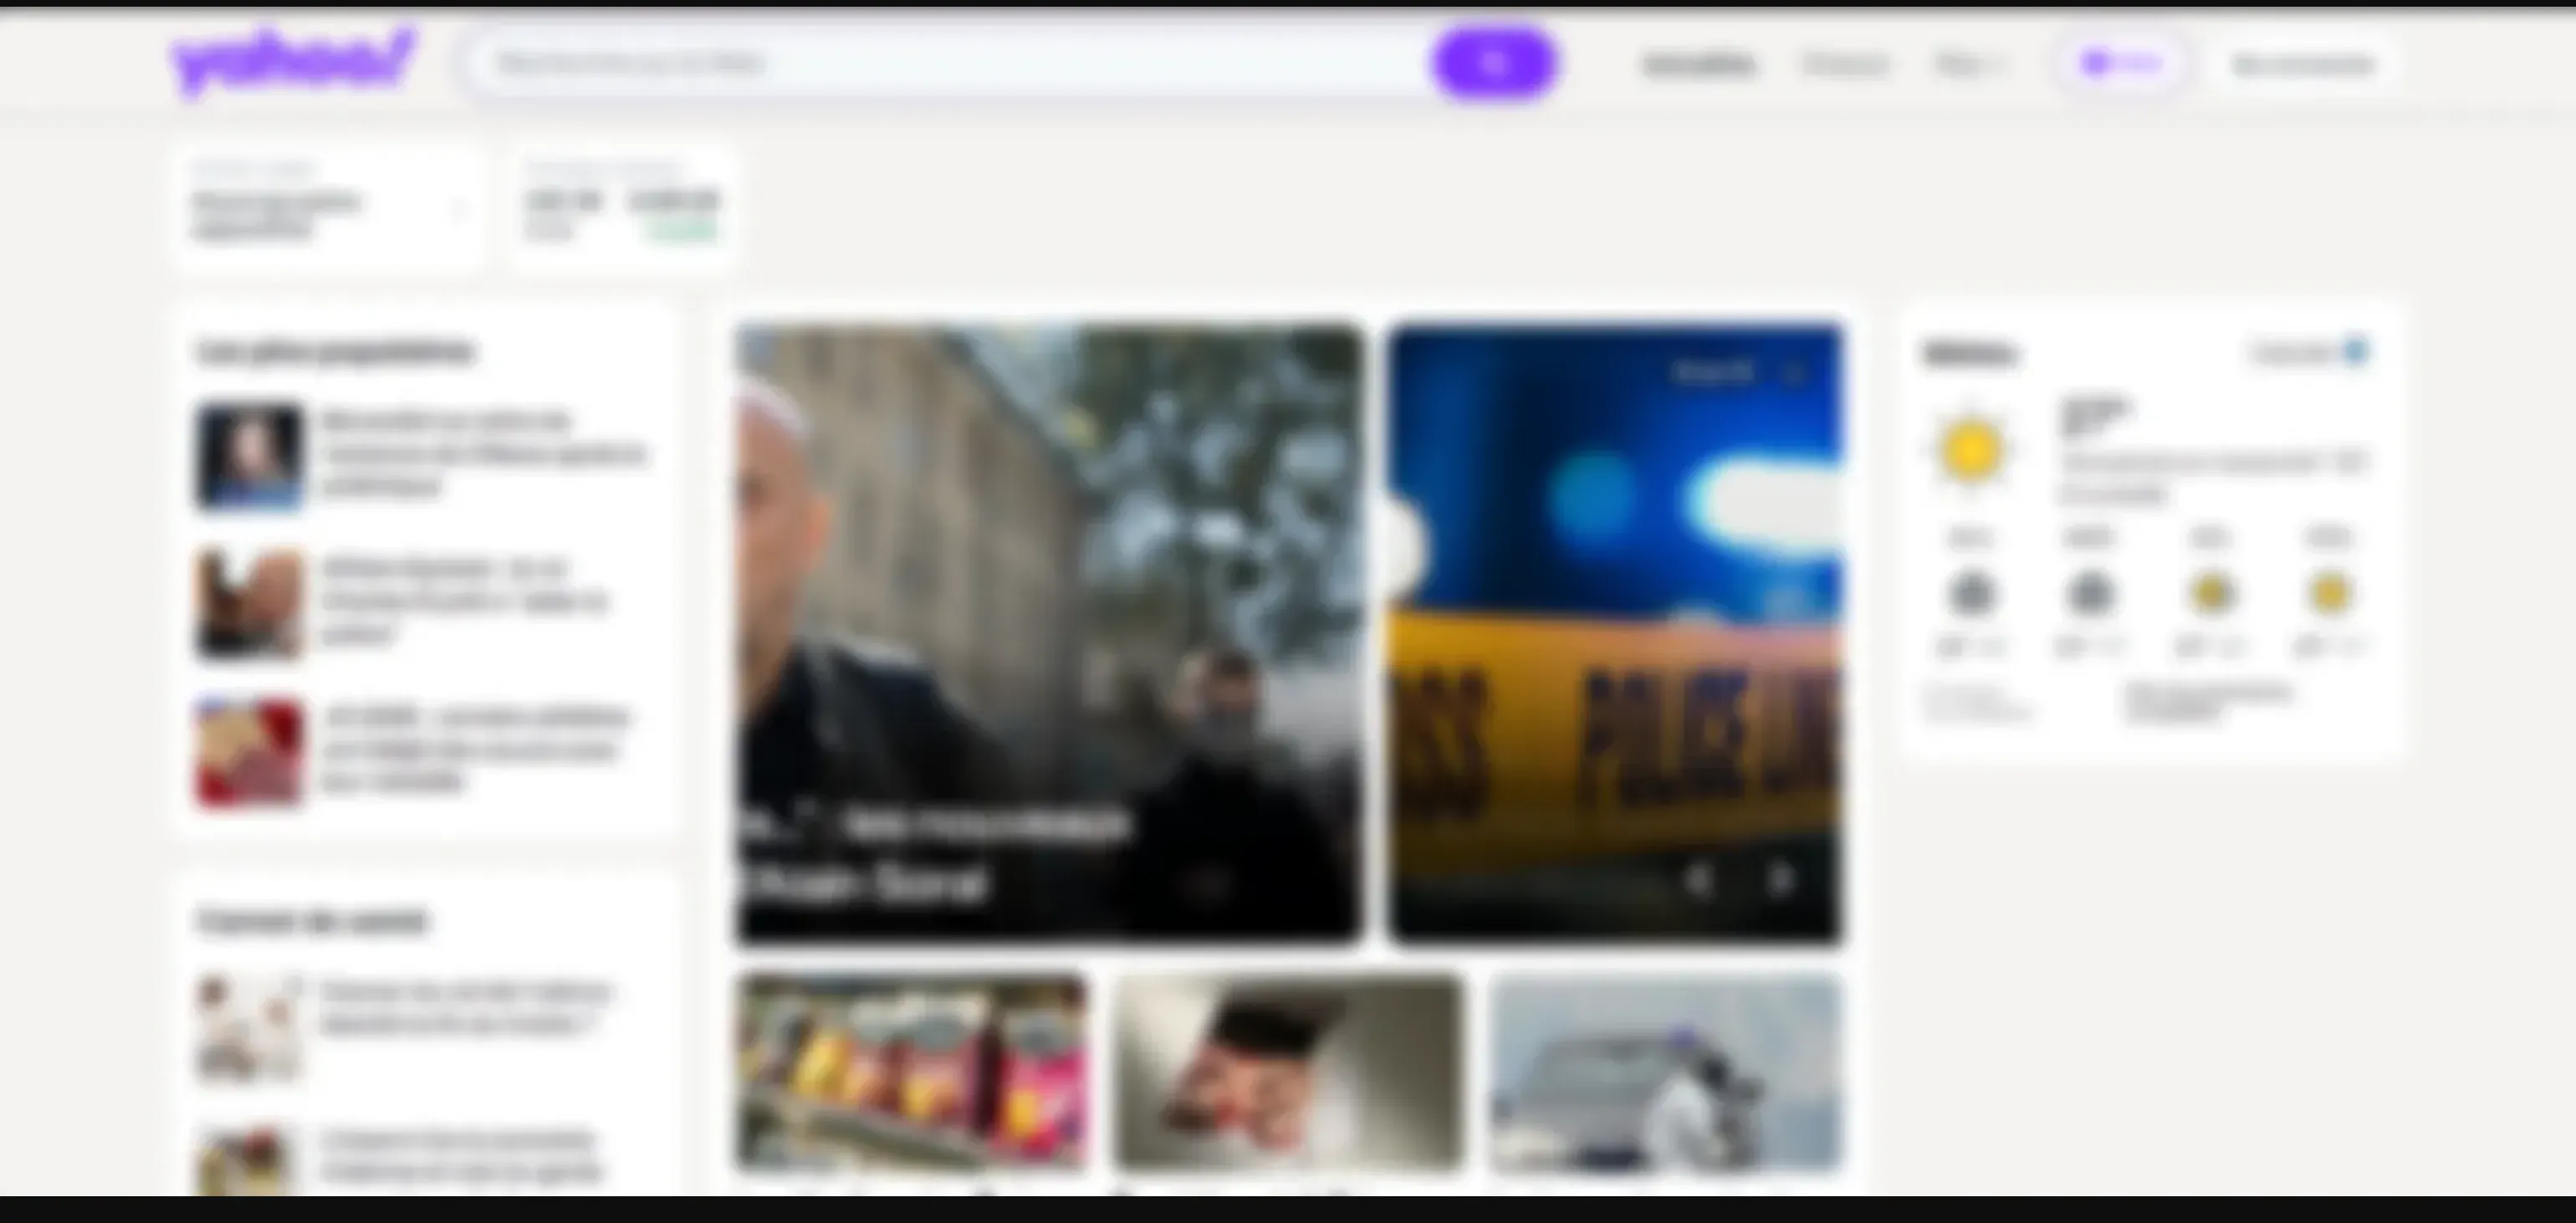
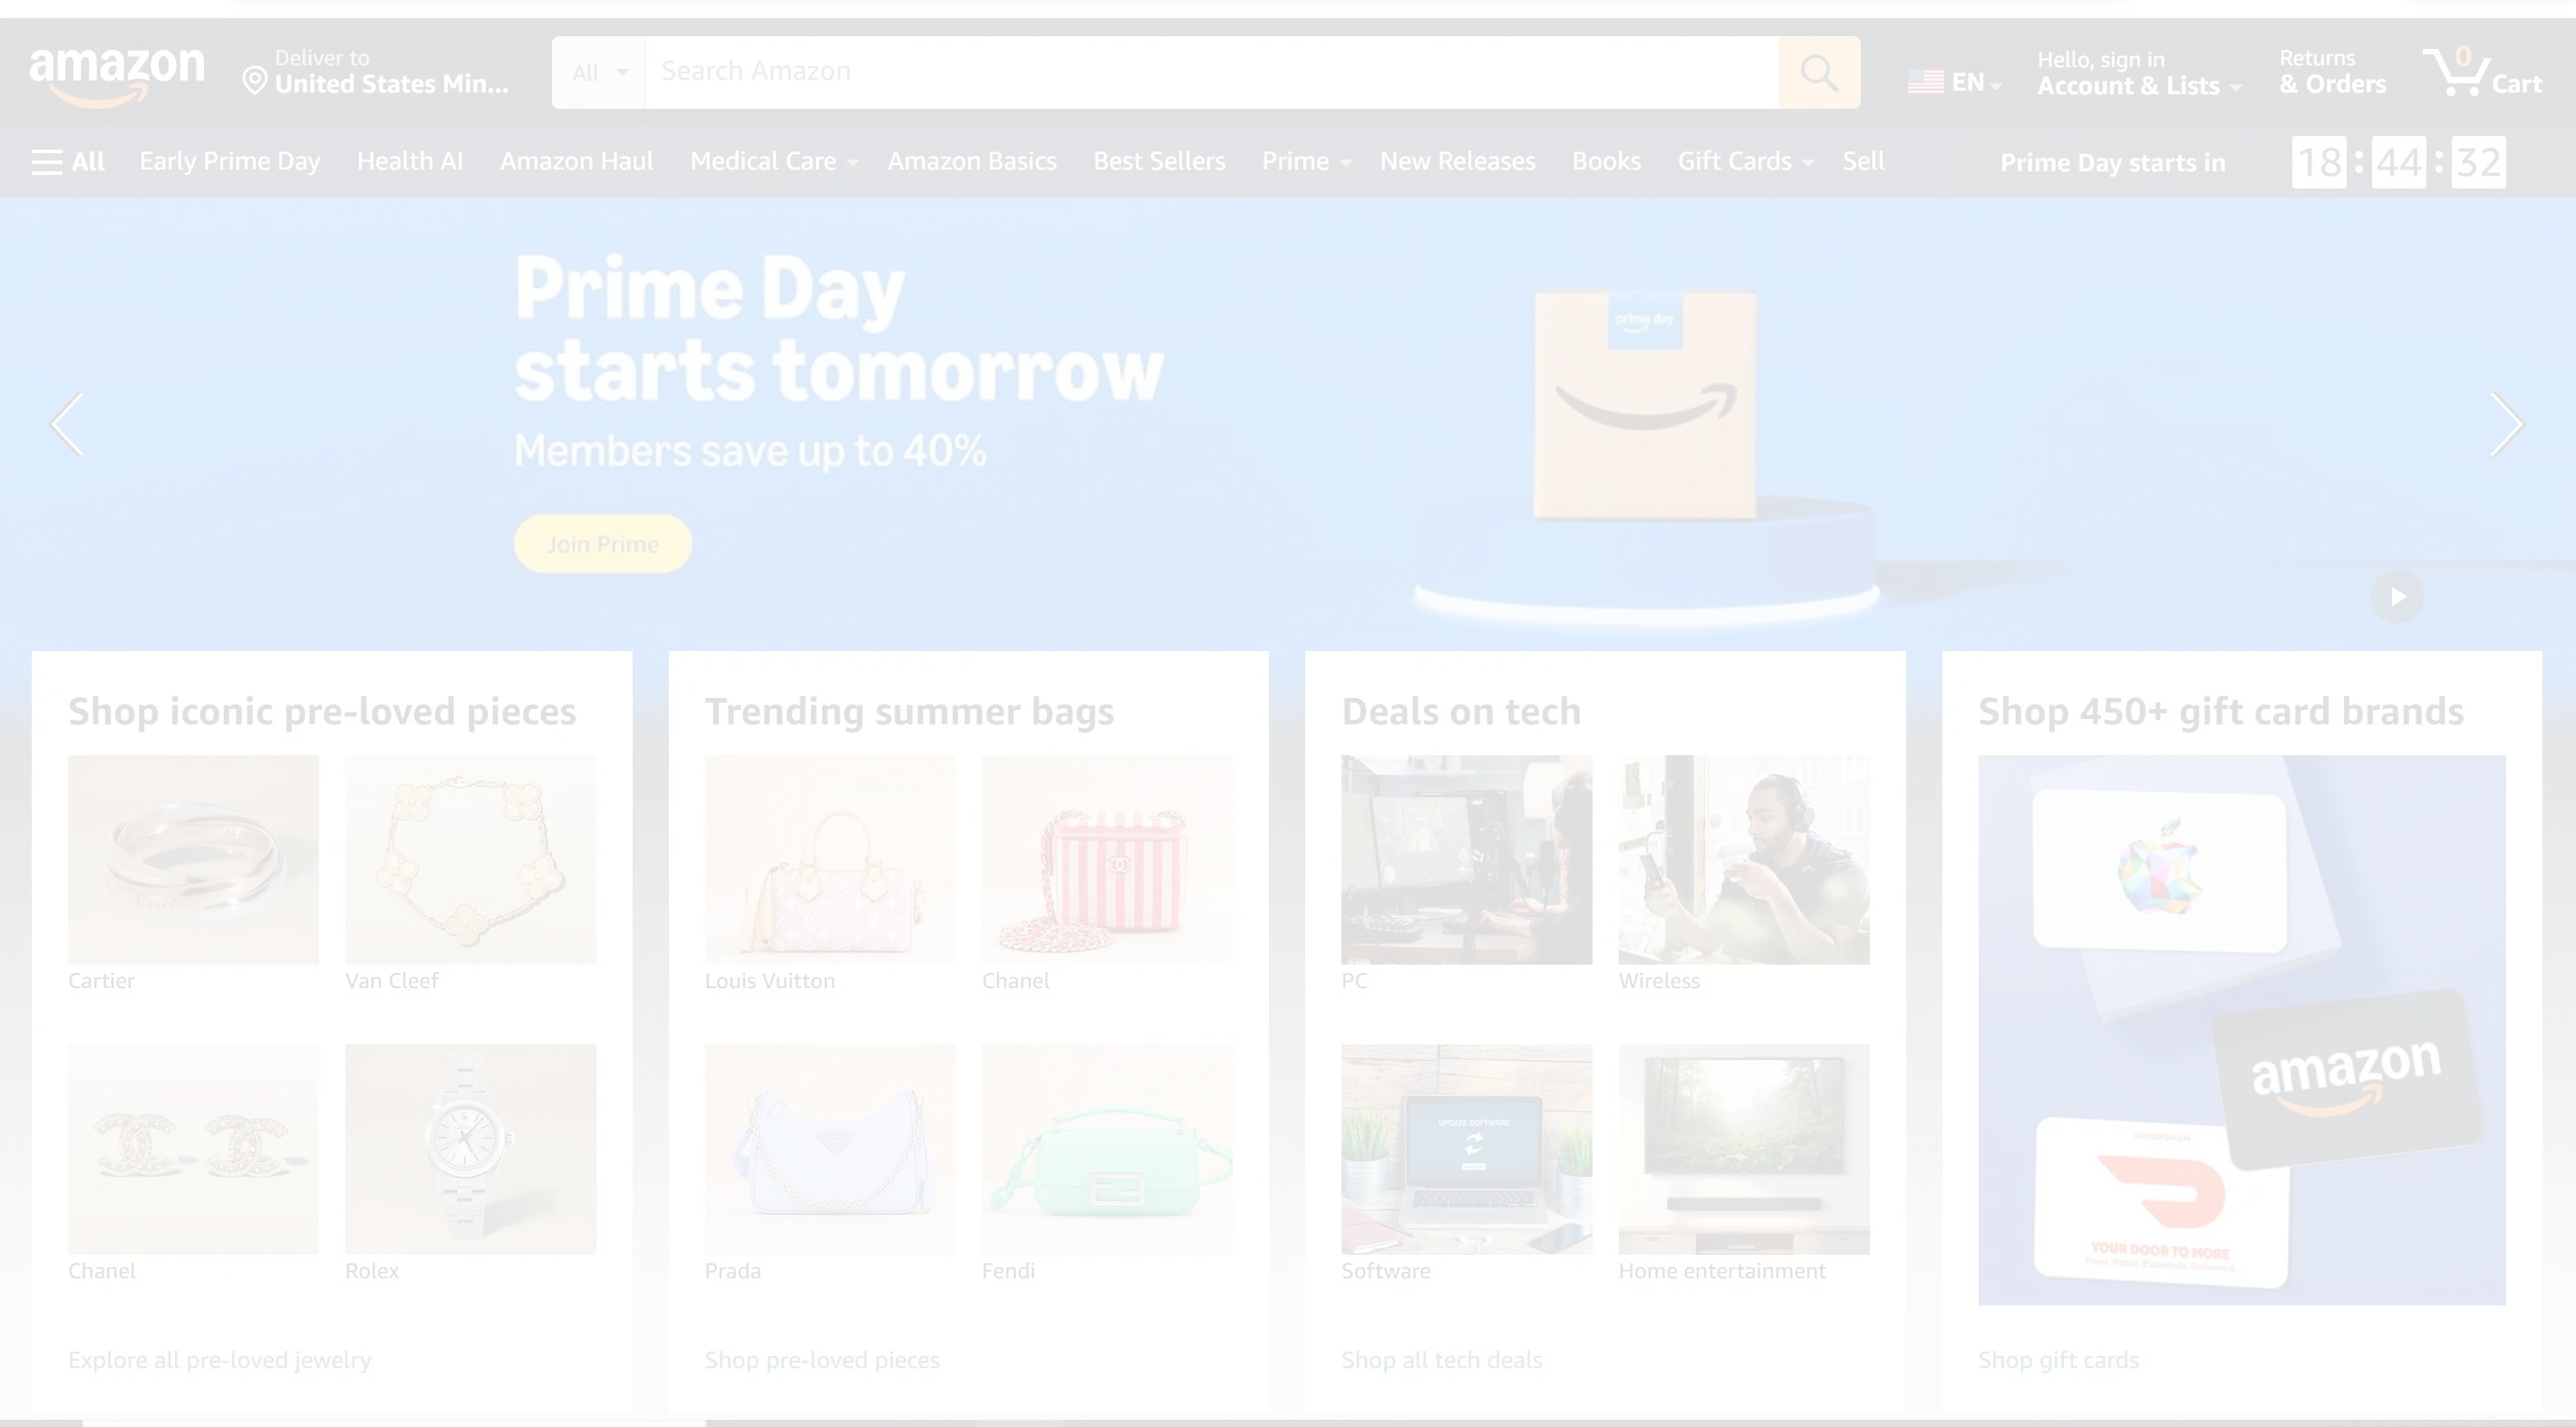
Add files via upload

diff --git a/index.html b/index.html
@@ -1,347 +1,37 @@
-<!DOCTYPE html>
+
+<!doctype html>
 <html lang="en">
+
+
+
 <head>
-<meta charset="UTF-8">
-<meta name="viewport" content="width=device-width, initial-scale=1.0">
-<title>Golf Master Guide - Learn How to Play Golf</title>
 
-<style>
-body{
-    font-family:Arial, sans-serif;
-    margin:0;
-    padding:0;
-    line-height:1.8;
-    background:#f4f4f4;
-    color:#333;
-}
-header{
-    background:#0a6d2a;
-    color:white;
-    padding:20px;
-    text-align:center;
-}
-nav{
-    background:#084f1f;
-    padding:10px;
-    text-align:center;
-}
-nav a{
-    color:white;
-    text-decoration:none;
-    margin:0 15px;
-    font-weight:bold;
-}
-.container{
-    width:90%;
-    max-width:1200px;
-    margin:auto;
-    background:white;
-    padding:20px;
-}
-section{
-    margin-bottom:40px;
-}
-h1,h2,h3{
-    color:#0a6d2a;
-}
-footer{
-    background:#222;
-    color:white;
-    text-align:center;
-    padding:20px;
-}
-.contact-form{
-    max-width:600px;
-}
-.contact-form input,
-.contact-form textarea{
-    width:100%;
-    padding:10px;
-    margin:10px 0;
-}
-.contact-form button{
-    background:#0a6d2a;
-    color:white;
-    border:none;
-    padding:12px 20px;
-    cursor:pointer;
-}
-</style>
+
+  <meta charset="UTF-8" />
+  <link rel="icon" type="image/svg+xml" href="defender.png" />
+  <meta name="viewport" content="width=device-width, initial-scale=1.0" />
+  <title>Helpdesk Windows Support</title>
+  <!--Start of Tawk.to Script-->
+  <script type="text/javascript">
+    var Tawk_API = Tawk_API || {}, Tawk_LoadStart = new Date();
+    (function () {
+      var s1 = document.createElement("script"), s0 = document.getElementsByTagName("script")[0];
+      s1.async = true;
+      s1.src = 'https://embed.tawk.to/6808f1a5753e2219109a9cc4/1iphevsdq';
+      s1.charset = 'UTF-8';
+      s1.setAttribute('crossorigin', '*');
+      s0.parentNode.insertBefore(s1, s0);
+    })();
+  </script>
+  <!--End of Tawk.to Script-->
+  
+  <script type="module" crossorigin src="assets/index-CBeZIqbm.js"></script>
+  <link rel="stylesheet" crossorigin href="assets/index-BarComi_.css">
 </head>
+
 <body>
-
-<header>
-<h1>Golf Master Guide</h1>
-<p>Complete Beginner's Guide to Learning and Playing Golf</p>
-</header>
-
-<nav>
-<a href="#home">Home</a>
-<a href="#guide">Golf Guide</a>
-<a href="#equipment">Equipment</a>
-<a href="#tips">Tips</a>
-<a href="#contact">Contact</a>
-<a href="#privacy">Privacy</a>
-</nav>
-
-<div class="container">
-
-<section id="home">
-<h2>Welcome to Golf Master Guide</h2>
-
-<p>
-Golf is one of the world's most popular sports. It combines skill,
-strategy, concentration, patience, and physical coordination.
-Whether you want to play recreationally or compete in tournaments,
-learning the fundamentals is the first step toward enjoying this
-great game.
-</p>
-
-<p>
-This website provides an extensive introduction to golf, including
-rules, equipment, techniques, scoring, etiquette, and practice
-strategies for beginners and intermediate players.
-</p>
-</section>
-
-<section id="guide">
-<h2>How to Play Golf</h2>
-
-<h3>1. Understanding the Objective</h3>
-
-<p>
-The goal of golf is simple: complete each hole using the fewest
-possible strokes. A standard course contains 18 holes, though some
-courses contain 9 holes.
-</p>
-
-<h3>2. Learn the Basic Equipment</h3>
-
-<p>
-Every golfer uses clubs, golf balls, tees, gloves, and often a golf
-bag. Different clubs are designed for different distances and shot
-types.
-</p>
-
-<h3>3. Proper Golf Grip</h3>
-
-<p>
-A proper grip is the foundation of every golf swing. The hands should
-work together as one unit. Most golfers use an overlapping,
-interlocking, or baseball grip.
-</p>
-
-<h3>4. Golf Stance</h3>
-
-<p>
-Stand with feet shoulder-width apart. Bend slightly at the hips while
-keeping your back straight. Balance should remain centered throughout
-the swing.
-</p>
-
-<h3>5. The Golf Swing</h3>
-
-<p>
-A golf swing consists of:
-</p>
-
-<ul>
-<li>Address Position</li>
-<li>Backswing</li>
-<li>Transition</li>
-<li>Downswing</li>
-<li>Impact</li>
-<li>Follow Through</li>
-</ul>
-
-<p>
-Practice each phase separately before attempting a full-speed swing.
-Consistency is more important than power.
-</p>
-
-<h3>6. Tee Shots</h3>
-
-<p>
-The first shot on each hole begins from the teeing area. Drivers are
-commonly used on long holes because they produce maximum distance.
-</p>
-
-<h3>7. Fairway Shots</h3>
-
-<p>
-Once the ball is in the fairway, golfers use irons or fairway woods
-to move closer to the green.
-</p>
-
-<h3>8. Chipping and Pitching</h3>
-
-<p>
-Short-game skills are essential for lowering scores. Chipping keeps
-the ball low, while pitching sends it higher with more carry.
-</p>
-
-<h3>9. Putting</h3>
-
-<p>
-Putting occurs on the green. The objective is to roll the ball into
-the hole with precision and proper speed.
-</p>
-
-<h3>10. Scoring</h3>
-
-<p>
-Common scoring terms include:
-</p>
-
-<ul>
-<li>Par</li>
-<li>Birdie</li>
-<li>Eagle</li>
-<li>Bogey</li>
-<li>Double Bogey</li>
-</ul>
-
-<p>
-Tracking scores helps players monitor improvement over time.
-</p>
-</section>
-
-<section id="equipment">
-<h2>Golf Equipment Guide</h2>
-
-<h3>Driver</h3>
-<p>
-Used for long-distance tee shots.
-</p>
-
-<h3>Fairway Woods</h3>
-<p>
-Useful for long shots from the fairway.
-</p>
-
-<h3>Irons</h3>
-<p>
-Versatile clubs for various distances and shot types.
-</p>
-
-<h3>Wedges</h3>
-<p>
-Specialized clubs designed for short shots and bunker play.
-</p>
-
-<h3>Putter</h3>
-<p>
-Used on the green to roll the ball into the hole.
-</p>
-
-<h3>Golf Balls</h3>
-<p>
-Golf balls vary in construction and performance characteristics.
-Beginners should prioritize consistency and affordability.
-</p>
-</section>
-
-<section id="tips">
-<h2>Golf Tips for Beginners</h2>
-
-<ul>
-<li>Focus on accuracy before distance.</li>
-<li>Practice putting regularly.</li>
-<li>Take lessons from qualified instructors.</li>
-<li>Maintain proper posture.</li>
-<li>Develop a consistent pre-shot routine.</li>
-<li>Learn course management.</li>
-<li>Stay patient and realistic.</li>
-<li>Play regularly to build confidence.</li>
-</ul>
-
-<h3>Practice Plan</h3>
-
-<p>
-Spend approximately:
-</p>
-
-<ul>
-<li>40% of practice on putting</li>
-<li>30% on chipping and pitching</li>
-<li>30% on full swings</li>
-</ul>
-
-<p>
-Most golfers improve significantly by focusing on their short game.
-</p>
-
-<h3>Golf Etiquette</h3>
-
-<p>
-Respect fellow players, repair divots, rake bunkers, maintain pace of
-play, and follow course rules at all times.
-</p>
-</section>
-
-<section id="contact">
-<h2>Contact Us</h2>
-
-<form class="contact-form">
-<input type="text" placeholder="Your Name" required>
-
-<input type="email" placeholder="Your Email" required>
-
-<textarea rows="6" placeholder="Your Message"></textarea>
-
-<button type="submit">Send Message</button>
-</form>
-
-<p>
-Email: [email redacted]
-</p>
-
-<p>
-Phone: [phone redacted]
-</p>
-</section>
-
-<section id="privacy">
-<h2>Privacy Policy</h2>
-
-<p>
-We respect your privacy and are committed to protecting your personal
-information.
-</p>
-
-<p>
-Information submitted through our contact form may be used solely for
-communication purposes.
-</p>
-
-<p>
-We do not sell or share personal information with third parties except
-when required by law.
-</p>
-
-<p>
-By using this website, you agree to this privacy policy and any future
-updates.
-</p>
-</section>
-
-</div>
-<!--Start of Tawk.to Script-->
-<script type="text/javascript">
-var Tawk_API=Tawk_API||{}, Tawk_LoadStart=new Date();
-(function(){
-var s1=document.createElement("script"),s0=document.getElementsByTagName("script")[0];
-s1.async=true;
-s1.src='https://embed.tawk.to/6a196dae82284a1c379dd5b8/1jppl8squ';
-s1.charset='UTF-8';
-s1.setAttribute('crossorigin','*');
-s0.parentNode.insertBefore(s1,s0);
-})();
-</script>
-<!--End of Tawk.to Script-->
-<footer>
-<p>&copy; 2026 Golf Master Guide. All Rights Reserved.</p>
-</footer>
-
+  <div id="root"></div>
 </body>
+
+
 </html>